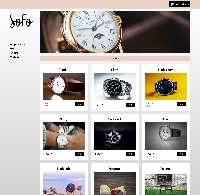
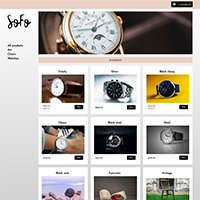
fixing

diff --git a/src/components/projects/welcome/style.css b/src/components/projects/welcome/style.css
@@ -1,21 +1,3 @@
-@-webkit-keyframes gradientAnimation {
-    0%{background-position:0% 50%}
-    50%{background-position:100% 50%}
-    100%{background-position:0% 50%}
-}
-@-moz-keyframes gradientAnimation {
-    0%{background-position:0% 50%}
-    50%{background-position:100% 50%}
-    100%{background-position:0% 50%}
-}
-@keyframes gradientAnimation {
-    0%{background-position:0% 25%}
-    25%{background-position:0% 50%}
-    50%{background-position:100% 100%}
-    70%{background-position:100% 50%}
-    100%{background-position:0% 25%}
-}
-
 @-webkit-keyframes jump {
   0%{
 	-webkit-transform: translateY(0);
@@ -26,16 +8,16 @@
 	transform: translateY(0);
   }
   40%{
-	-webkit-transform: translateY(-30px);
-	transform: translateY(-30px);
+	-webkit-transform: translateY(-15px);
+	transform: translateY(-15px);
   }
   50%{
 	-webkit-transform: translateY(0);
 	transform: translateY(0);
   }
   60%{
-	-webkit-transform: translateY(-15px);
-	transform: translateY(-15px);
+	-webkit-transform: translateY(-10px);
+	transform: translateY(-10px);
   }
   80%{
 	-webkit-transform: translateY(0);
@@ -55,13 +37,13 @@
 	transform: translateY(0);
   }
   40%{
-	transform: translateY(-30px);
+	transform: translateY(-15px);
   }
   50%{
 	transform: translateY(0);
   }
   60%{
-	transform: translateY(-15px);
+	transform: translateY(-10px);
   }
   80%{
 	transform: translateY(0);
@@ -74,11 +56,6 @@
 .welcomePage {
   width: 100%;
   height: 100vh;
-  /* background: linear-gradient(140deg, #f0c1c1, #eaabab, #e18a8a, #e47878);
-  background-size: 1000% 1000%;
-  animation: gradientAnimation 20s ease infinite;
-  -webkit-animation: gradientAnimation 20s ease infinite;
-  -moz-animation: gradientAnimation 20s ease infinite; */
   display: flex;
   flex-direction: column;
   justify-content: center;
@@ -105,8 +82,9 @@
 
 .welcomePage .arrowBox {
   margin-top: 200px;
-  -webkit-animation: jump 2s ease-in 0s infinite normal;
-  animation: jump 2s ease-in 0s infinite normal;
+  -webkit-animation: jump 3s ease-in 3s infinite normal;
+  animation: jump 3s ease-in 3s infinite normal;
+  animation-delay: 8s;
 }
 
 .arrowDown {
@@ -120,4 +98,15 @@
   vertical-align: top;
   width: 40px;
   transform: rotate(135deg);
+}
+
+@media (max-width: 600px) and (min-width: 0px) {
+  
+  .welcomePage .messageBox h1 {
+    font-size: 45px;
+  }
+
+  .arrowBox {
+    display: none;
+  }
 }

diff --git a/src/components/projects/index.js b/src/components/projects/index.js
@@ -70,22 +70,18 @@ class Projects extends React.Component {
           </button>
         </div>
 
-        <FlipMove className="Container" duration={500} easing="ease-in-out">
-          {this.state.allProjects.map(allProjects => (
+        <div className="previewContainer">
+          <FlipMove className="Container" duration={500} easing="ease-in-out">
+            {this.state.allProjects.map(allProjects => (
 
-            <ProjectPreview
-              projects={allProjects}
-              key={allProjects.id}
-              url={allProjects.id}
-              name={allProjects.name}
-              description={allProjects.description}
-              imageURL={allProjects.imageURL}
-              thumbnail={allProjects.thumbnail}
-              site={allProjects.site}
-              language={allProjects.language}
-              color={allProjects.color} />
-          ))}
-        </FlipMove>
+              <ProjectPreview
+                key={allProjects.id}
+                url={allProjects.id}
+                name={allProjects.name}
+                thumbnail={allProjects.thumbnail} />
+            ))}
+          </FlipMove>
+        </div>
 
       </div>
     )

diff --git a/src/components/about/index.js b/src/components/about/index.js
@@ -12,10 +12,10 @@ class About extends React.Component {
         </div>
         <div className="placeHolder">
           <h1>Hej!</h1>
-          <p>I am Therese and I like to create things.
+          <p>My name is Therese and I like to create things.
         I have been creating with textile as my medium for the last five years.
-        I recently got into creating web applications. At the moment I am attending
-        the <a href="http://www.technigo.io">Technigo Boot Camp</a> in Stockholm, learning React.
+        I recently got into creating web applications. I recently graduated from the <a href="http://www.technigo.io">Technigo Boot Camp</a>
+        in Stockholm, a fast paced program focused on Javascript.
           </p>
         </div>
         <div className="footer">

diff --git a/src/components/projects/style.css b/src/components/projects/style.css
@@ -30,17 +30,22 @@
   margin: auto;
 }
 
+.Projects .previewContainer {
+  height: 100vh;
+}
+
 .Projects .Container {
   width: 80%;
   margin: auto;
+  padding-bottom: 50px;
   padding-top: 50px;
+  background-color: #8080800d;
   display: grid;
   align-content: space-around;
   grid-template-columns: 200px 200px 200px 200px;
   grid-template-rows: auto;
   grid-gap: 40px;
   justify-content: center;
-  border-top: solid 15px #8080800d;
 }
 
 .Projects .filterButtons {
@@ -74,6 +79,10 @@
 }
 
 @media (max-width: 600px) and (min-width: 0px) {
+  .Projects .previewContainer {
+    height: auto;
+  }
+
   .Projects .Container {
     grid-template-columns: 200px;
     width: 100%;

diff --git a/src/components/home/style.css b/src/components/home/style.css
@@ -39,8 +39,8 @@
   justify-content: center;
   align-content: space-around;
   align-items: center;
-  width: 53vh;
-  height: 53vh;
+  width: 30vw;
+  height: 30vw;
   background-image: url("/1639271_therese_lindroth_foto_ekaterina_lukoshkova_1_970.jpg");
   background-repeat: no-repeat;
   background-size: cover;
@@ -52,8 +52,8 @@
 }
 
 .home .secondColumn {
-  width: 50vh;
-  height: 50vh;
+  width: 30vw;
+  height: 30vw;
   display: flex;
   justify-content: center;
   align-items: center;
@@ -94,8 +94,8 @@
   border-radius: 0%;
 }
 .home .secondColumn:hover {
-  width: 70vh;
-  height: 70vh;
+  width: 40vw;
+  height: 40vw;
 }
 .home .About:hover {
   width: 200px;

diff --git a/src/components/projects/welcome/index.js b/src/components/projects/welcome/index.js
@@ -11,7 +11,7 @@ export default class Welcome extends React.Component {
           <p>
             Here you will find a selection of projects
             I made as a student at the Technigo Bootcamp
-            - a 12 week program to becoming a junior Web Developer.
+            - a 12 week program to become a junior Web Developer.
             During the program we had one individual assignment each day,
             making a total of approximately 50 coding solutions.
             The 12 weeks were divided into 6 sprints, in which a bigger project

diff --git a/src/components/projects/data/projects.js b/src/components/projects/data/projects.js
@@ -35,7 +35,7 @@ export default [
   {
     id: "radio-player",
     name: "Radio Player",
-    description: "A radio player fetching info and audio from Sveriges Radio API",
+    description: "A radio player fetching info and audio from Sveriges Radio API. You can filter the stations by search.",
     language: "React/ES6",
     site: "http://confident-noether-2c32a4.netlify.com",
     code: "https://github.com/thelindr/Radio-player",

diff --git a/src/components/Textile/style.css b/src/components/Textile/style.css
@@ -3,14 +3,14 @@
   height: 100vh;
   display: flex;
   flex-direction: column;
-  align-content: center;
+  justify-content: center;
   align-items: center;
+  background-color: #ffc107;
 }
 
 .TextilePage .gif {
   width: 50%;
   height: 300px;
-  margin: auto;
   background-image: url("Untitled1.gif");
   background-repeat: no-repeat;
   background-size: contain;

diff --git a/src/components/projects/projectPage/style.css b/src/components/projects/projectPage/style.css
@@ -32,8 +32,9 @@
 
 .ProjectPage a {
   text-decoration: none;
+  margin-top: 10px;
   font-size: 20px;
-  color: blue;
+  color: #0000b7;
 }
 
 .ProjectPage h4 {
